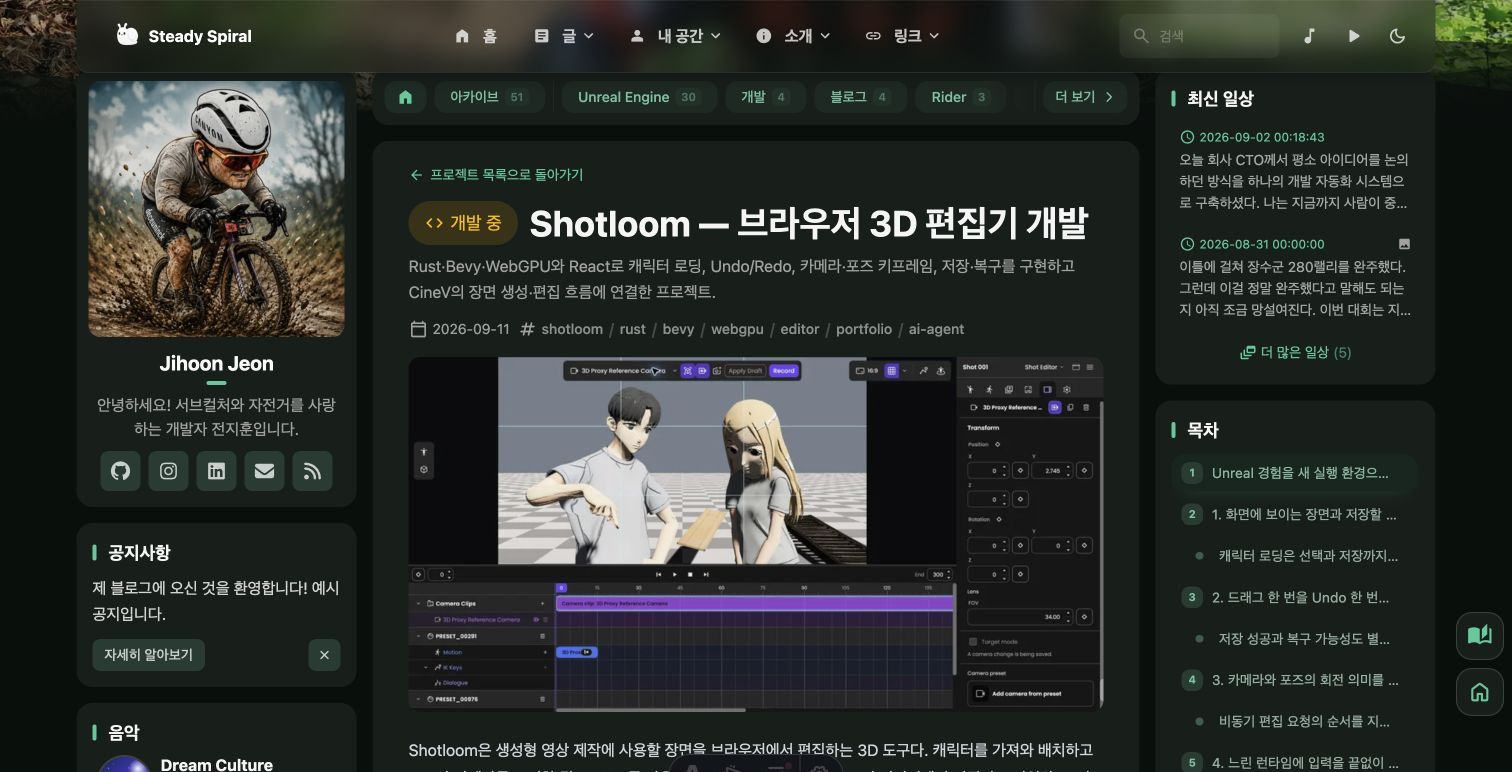
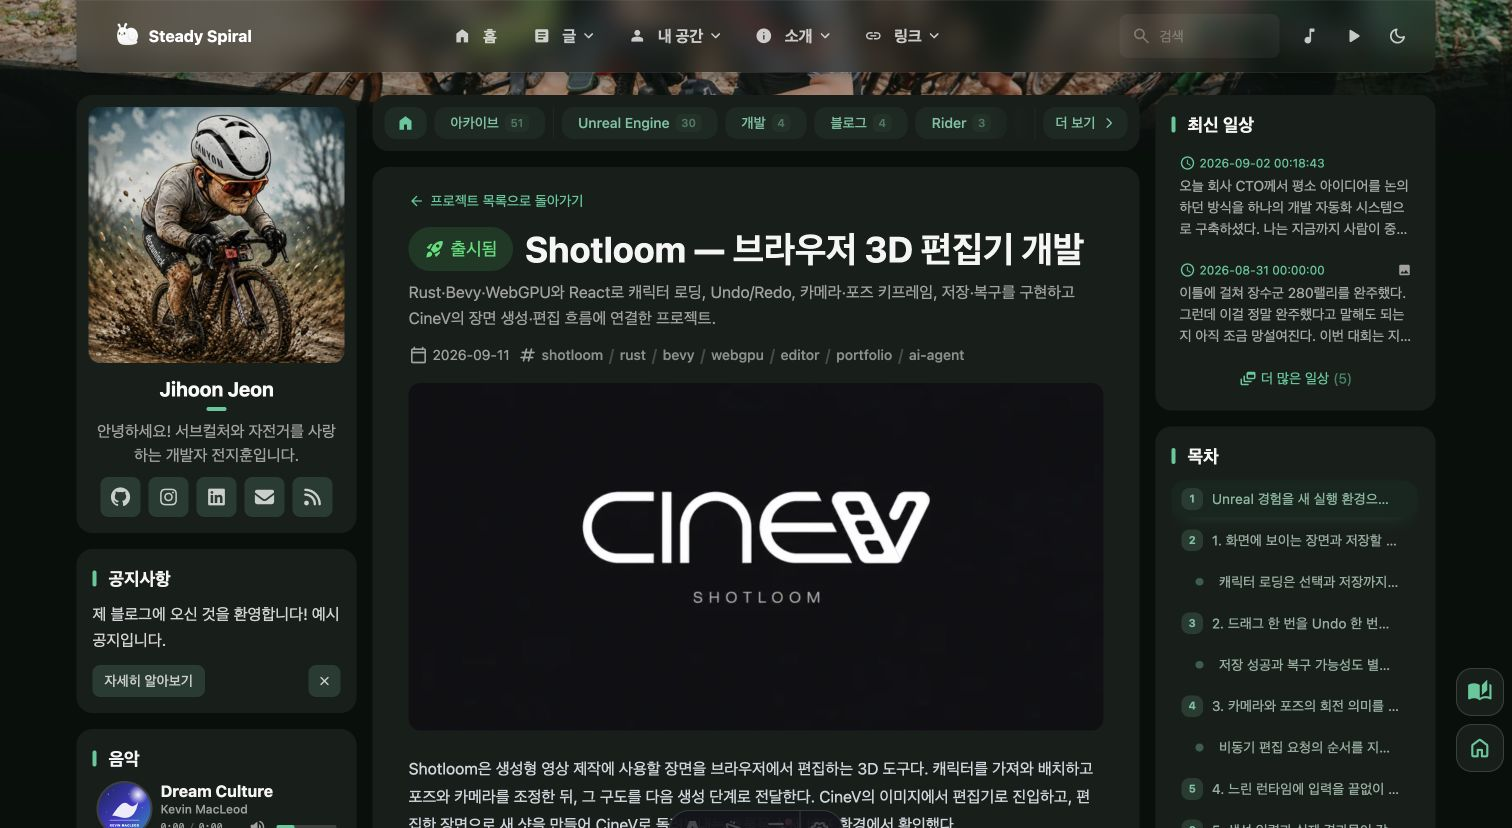
feat(projects): brand Shotloom cover and mark it published

diff --git a/src/content/projects/shotloom.md b/src/content/projects/shotloom.md
@@ -2,7 +2,7 @@
 title: "Shotloom — 브라우저 3D 편집기 개발"
 published: 2026-09-11
 description: "Rust·Bevy·WebGPU와 React로 캐릭터 로딩, Undo/Redo, 카메라·포즈 키프레임, 저장·복구를 구현하고 CineV의 장면 생성·편집 흐름에 연결한 프로젝트."
-image: ./images/shotloom/deployed-07-camera-fov-34.png
+image: ./images/shotloom/cover.webp
 tags:
   - shotloom
   - rust
@@ -13,7 +13,7 @@ tags:
   - ai-agent
 lang: ko
 draft: false
-status: developing
+status: published
 order: 1
 ---
 
